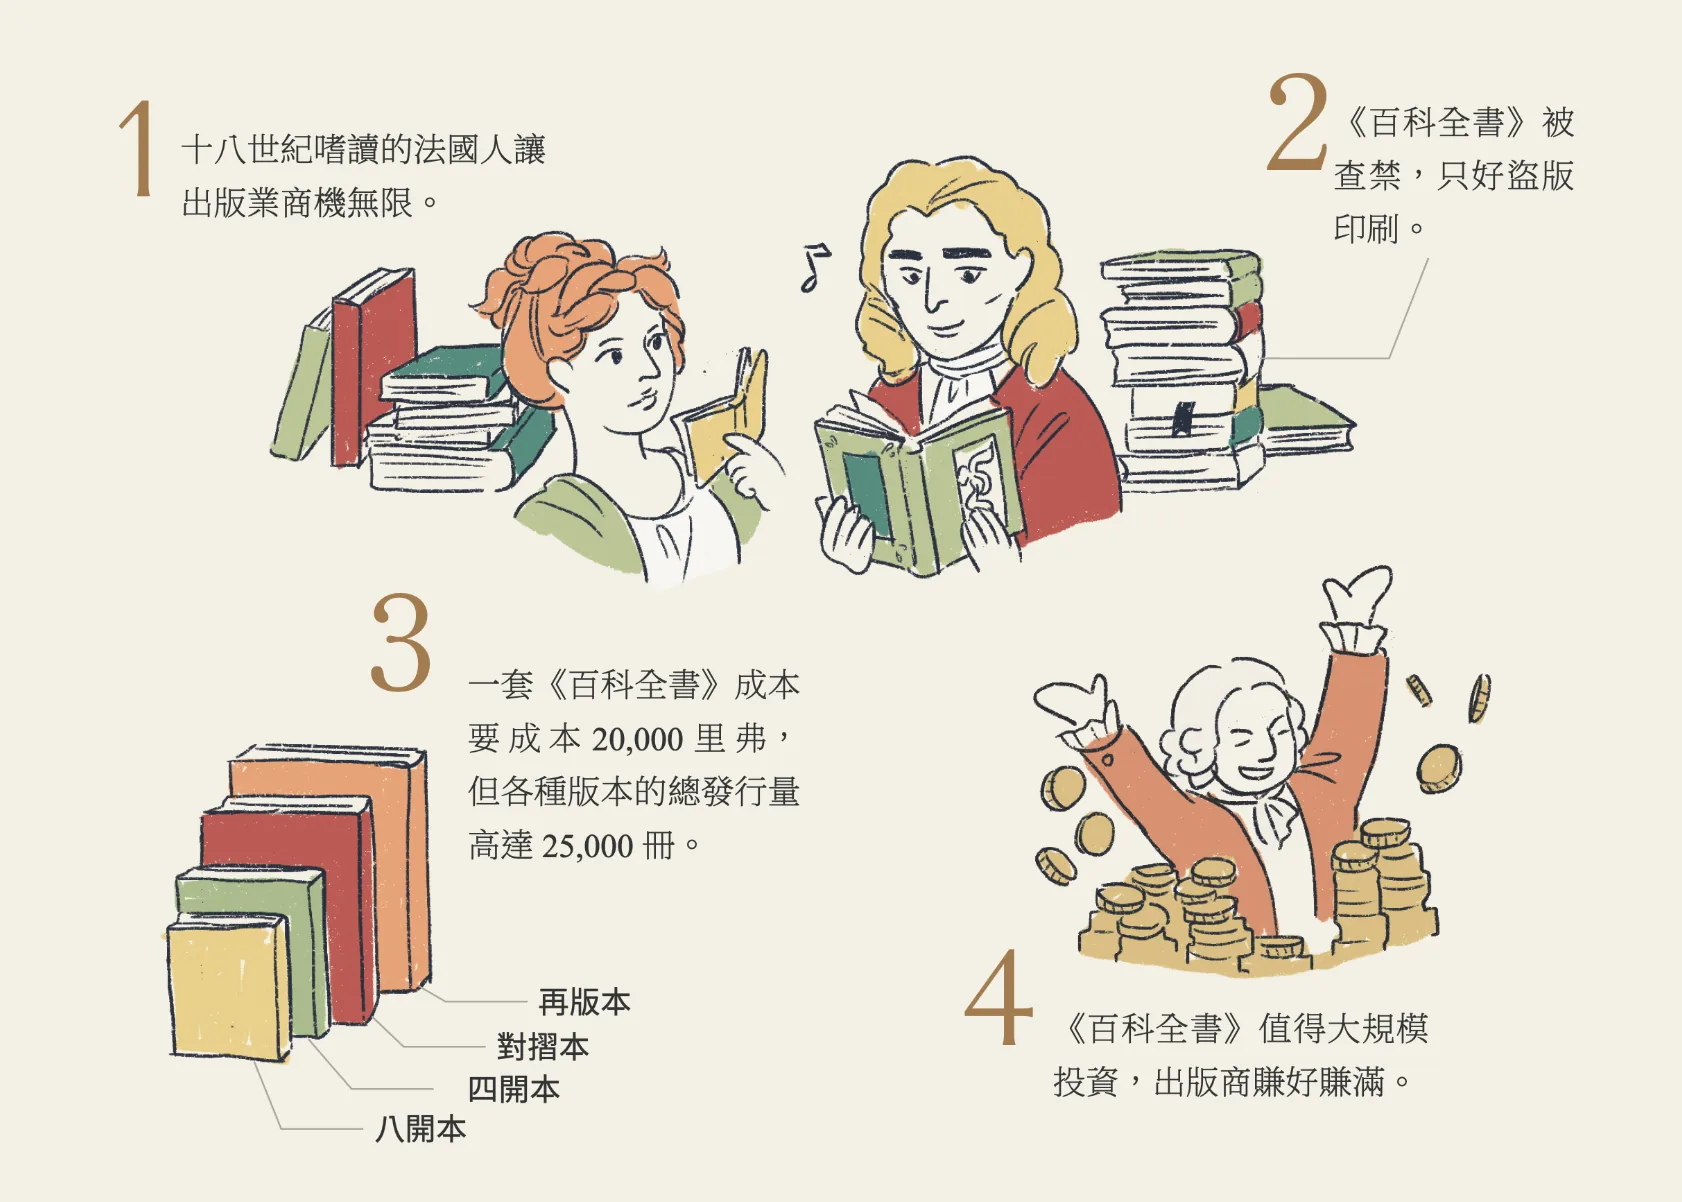
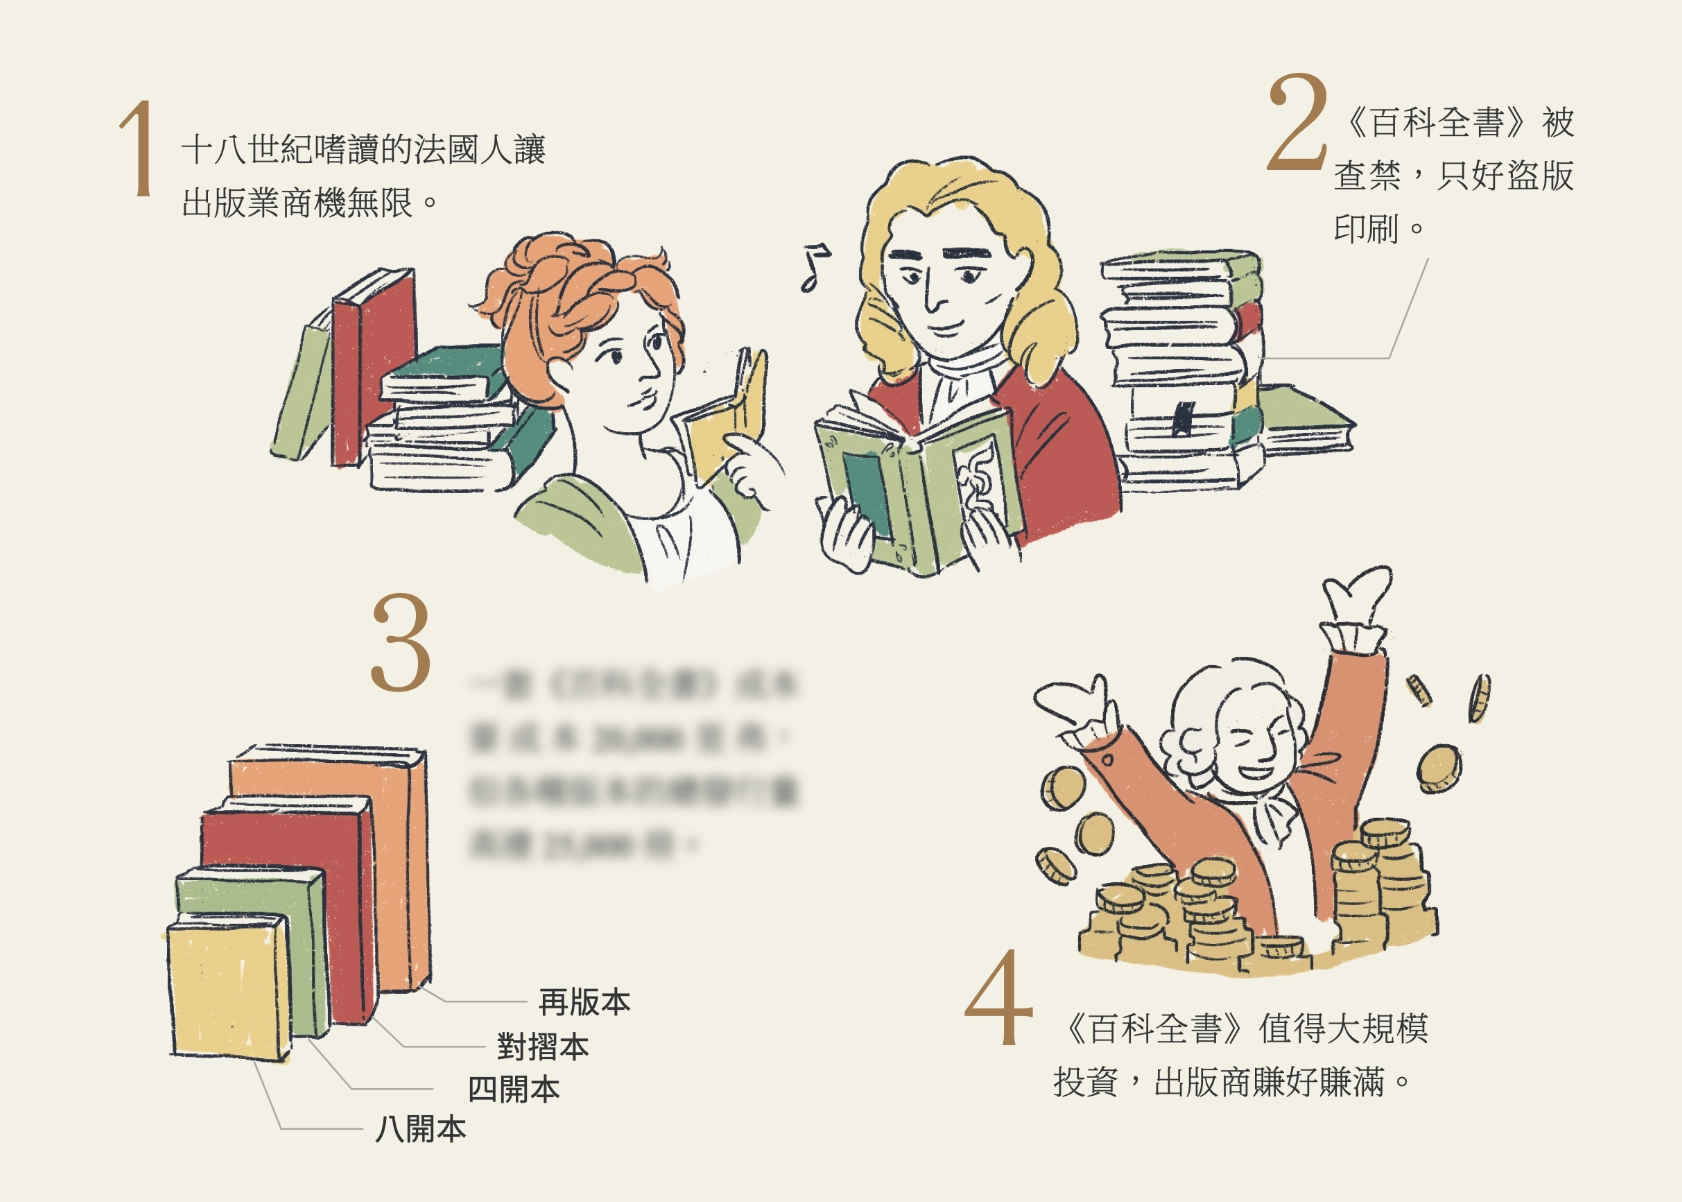
fix(textbook): keep the page still when the lightbox closes
Closing restored focus to whatever held it beforehand, and focus() scrolls
that element into view. If you had touched the flip book before opening a
lightbox up in the brief section, closing it yanked the page down to the
interior. Restore with preventScroll.

Also widen the book to the cover row's measure by moving it from Container
to Wide — both now span 927px.

Changed region(s): [[0.2782, 0.5541, 0.4946, 0.7388]]

diff --git a/src/assets/projects/textbook/zh/Page.jsx b/src/assets/projects/textbook/zh/Page.jsx
@@ -780,7 +780,7 @@ export default function YoungHistoriansGuidePageZh() {
               </P>
             </Container>
 
-            <Container className="mt-12">
+            <Wide className="mt-12">
               <figure>
                 {/* 真的可以翻的書。頁面內容目前是佔位頁，等單頁圖上傳後換掉 BOOK_PAGES。 */}
                 <PageFlipBook
@@ -801,7 +801,7 @@ export default function YoungHistoriansGuidePageZh() {
                   </p>
                 </figcaption>
               </figure>
-            </Container>
+            </Wide>
           </FadeIn>
         </SectionBlock>
 

diff --git a/src/components/utilities/Lightbox.jsx b/src/components/utilities/Lightbox.jsx
@@ -87,7 +87,9 @@ function Lightbox({ items, index, onClose, onNavigate }) {
     return () => {
       document.removeEventListener('keydown', onKeyDown)
       document.body.style.overflow = previousOverflow
-      lastFocused.current?.focus?.()
+      // preventScroll 很重要：focus() 預設會把元素捲進畫面，若開啟燈箱前的焦點
+      // 停在頁面別處（例如翻頁書），關閉時整頁就會被拉過去。
+      lastFocused.current?.focus?.({ preventScroll: true })
     }
   }, [isOpen, onClose, go])
 
